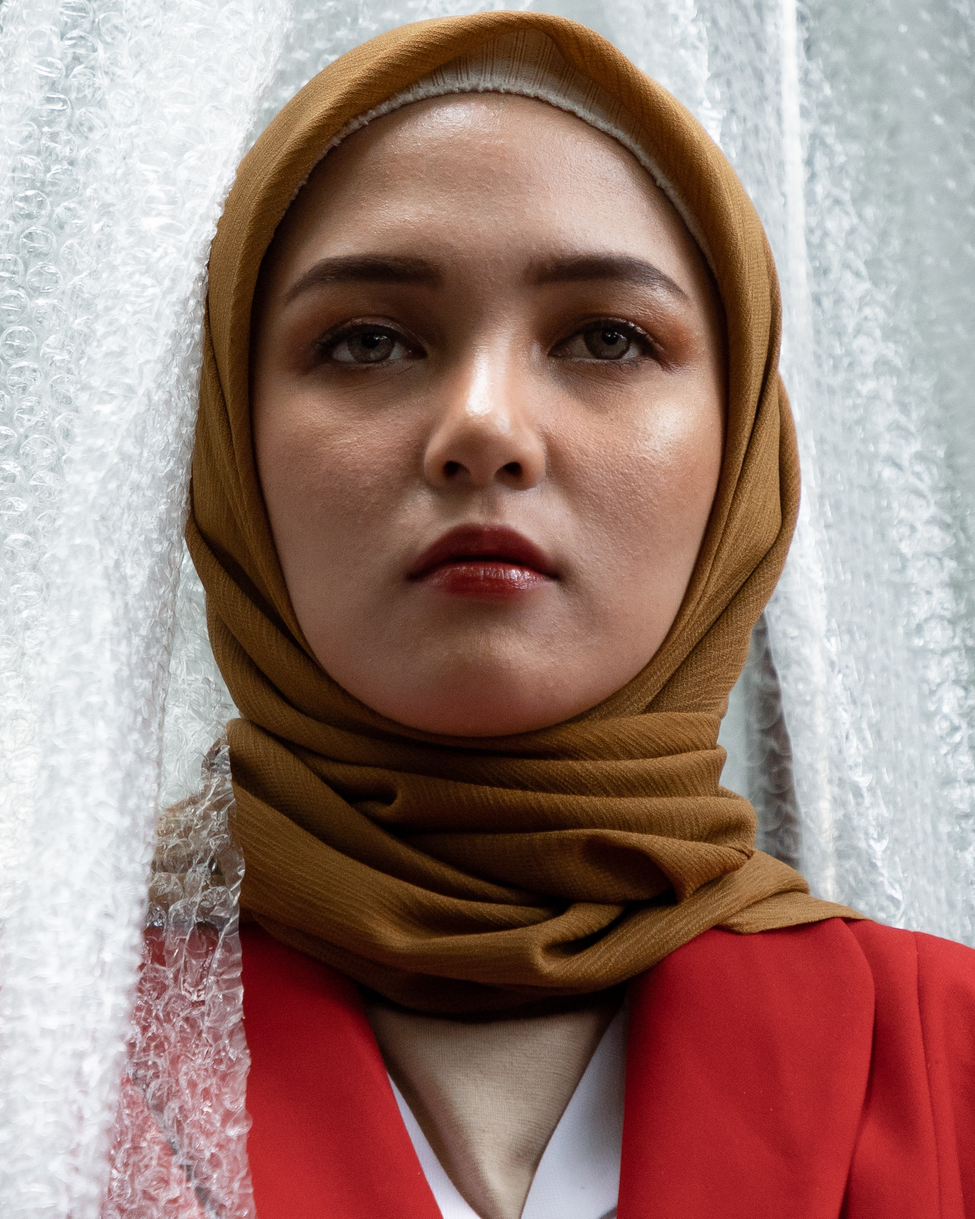
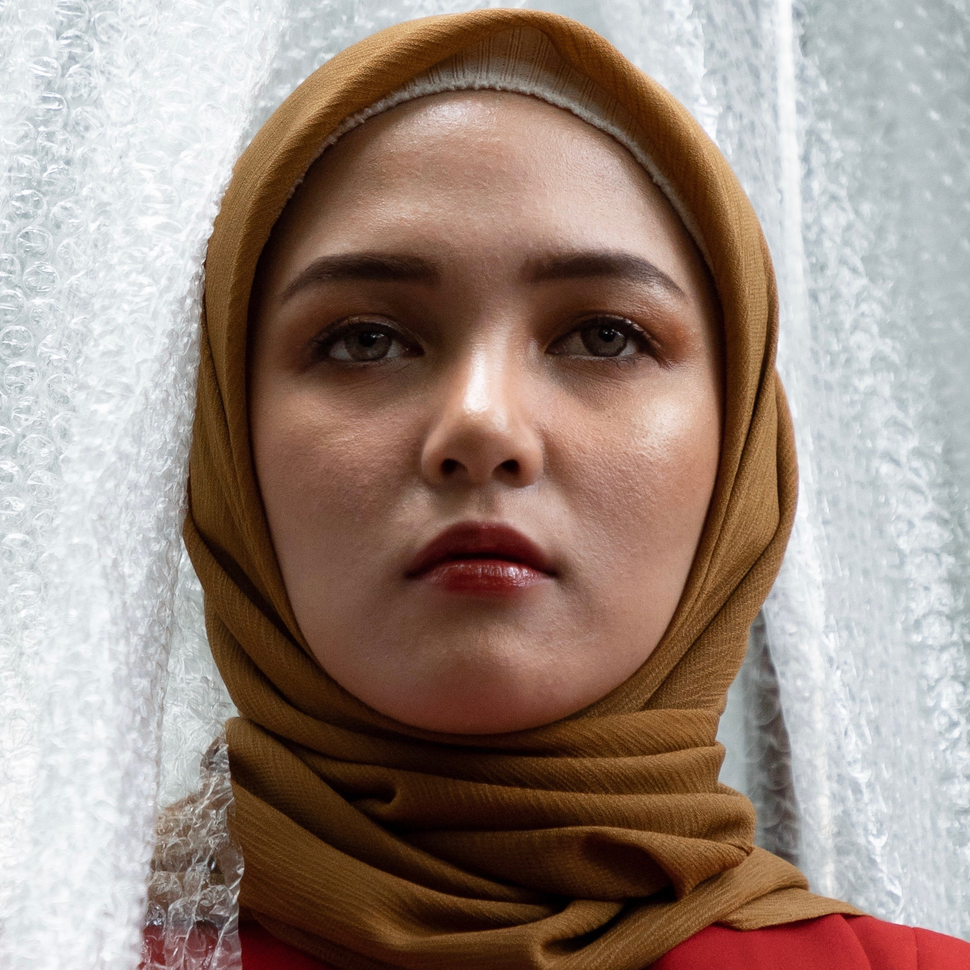
Added usepersonalised username to replace MyAccount// Cropped images and added margin to cards

diff --git a/products/templates/products/products.html b/products/templates/products/products.html
@@ -7,22 +7,27 @@
 {% endblock %} {% block content %}
 <div class="container">
   <div class="row">
-    <div class="col">
-      {% for product in products %}
+    {% for product in products %}
+    <div class="card-container col-sm-12 col-md-6 col-lg-4">
       <div class="card" style="width: 18rem;">
-        <img class="card-img-top" src="{{ product.image.url }}" alt="{{ product.name }}" />
+        <img
+          class="card-img-top"
+          src="{{ product.image.url }}"
+          alt="{{ product.name }}"
+        />
         <div class="card-body">
           <h5 class="card-title">{{ product.name }}</h5>
           <p class="card-text">
             ${{ product.price }}
-            <br>
+            <br />
             Made in {{ product.nation_of_origin }}
           </p>
           <a href="#" class="btn btn-primary">See Item</a>
         </div>
       </div>
-      {% endfor %}
     </div>
+      {% endfor %}
+    
   </div>
 </div>
 {% endblock %}

diff --git a/templates/base.html b/templates/base.html
@@ -39,7 +39,11 @@
                         <a class="text-black nav-link" href="#" id="user-options" data-toggle="dropdown" aria-haspopup="true" aria-expanded="false">
                             <div class="text-center">
                                 <div><i class="fas fa-user fa-lg"></i></div>
-                                <p class="my-0">My Account</p>
+                                {% if request.user.is_authenticated %}
+                                    <p class="my-0">{{ request.user.username }}</p>
+                                {% else %}
+                                    <p class="my-0">Login</p>
+                                {% endif %}    
                             </div>
                         </a>
                         <div class="dropdown-menu border-0">

diff --git a/home/templates/home/index.html b/home/templates/home/index.html
@@ -18,7 +18,7 @@
                 </h1>
                 <div class="my-5">
                     <h4>
-                        <a href="" class="get-products-button btn btn-lg rounded-0 text-uppercase py-3 exo">Change the World</a>
+                        <a href="{% url 'products' %}" class="get-products-button btn btn-lg rounded-0 text-uppercase py-3 exo">Change the World</a>
                     </h4>
                 </div>
             </div>

diff --git a/static/css/base.css b/static/css/base.css
@@ -43,6 +43,15 @@ body {
     color: white;
 }
 
+.card-container {
+    text-align: center;
+}
+
+.card {
+    display: inline-block;
+    margin-bottom: 10px;
+}
+
 .text-black {
     color: #000 !important;
 }
